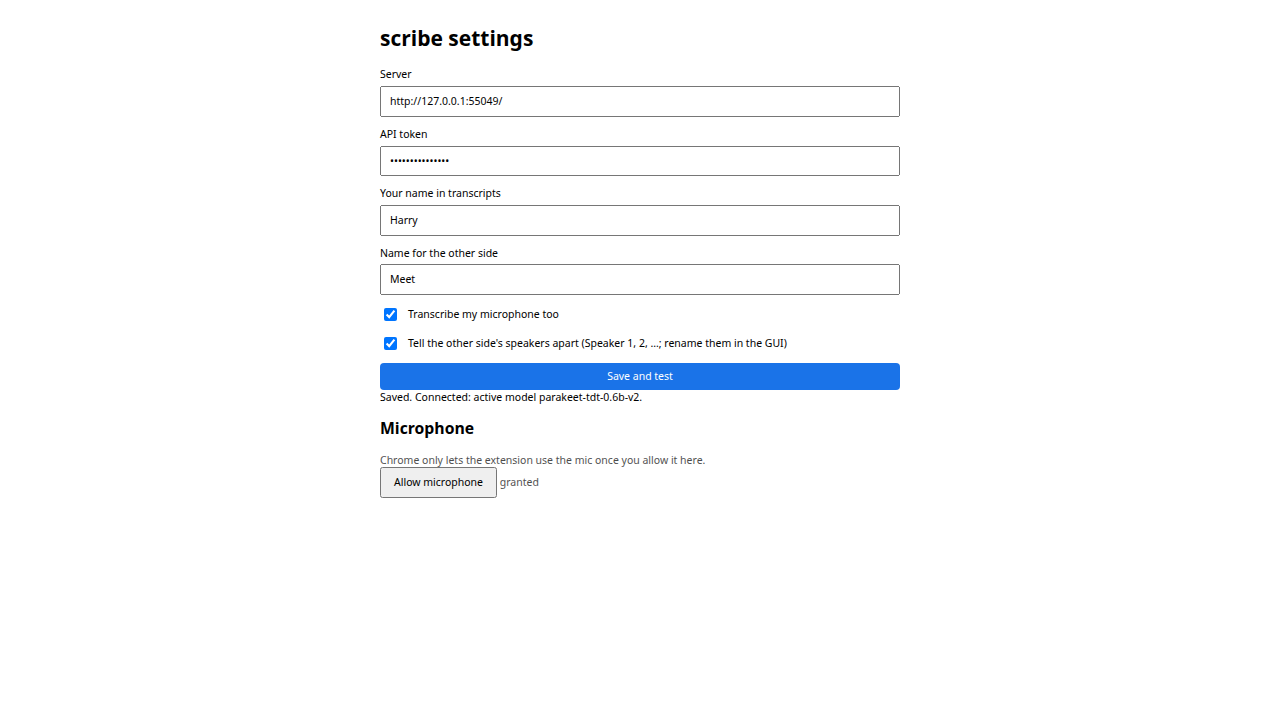
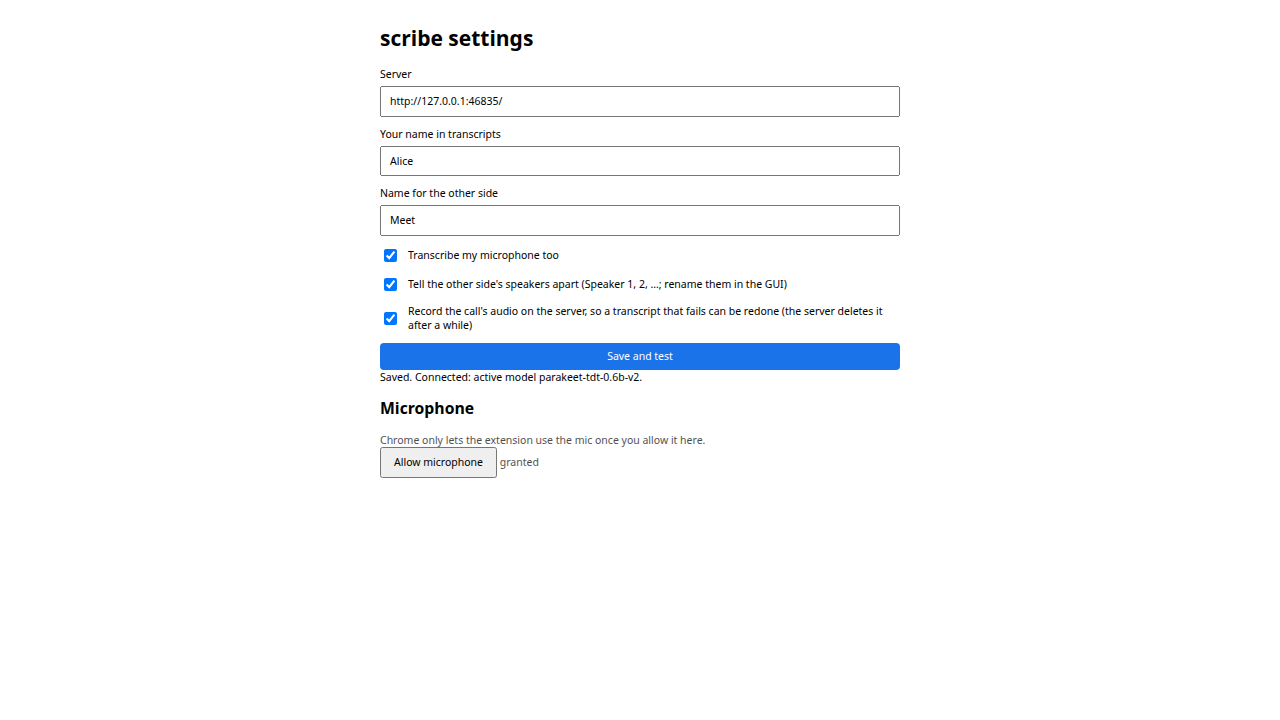
Regenerate the options screenshot without the personal name; drop the no-op host permission; realign the spec diagram

Changed region(s): [[0.2812, 0.3361, 0.7188, 0.7028], [0.2812, 0.1833, 0.4062, 0.275], [0.375, 0.1222, 0.4062, 0.1528]]

diff --git a/docs/spec.md b/docs/spec.md
@@ -81,10 +81,10 @@ test has transcribed the reference clip with it.
 ## 3. Architecture
 
 ```
- Discord voice (DAVE, UDP)                       the operator's browser (tailnet)
+ Discord voice (DAVE, UDP)                       your browser (tailnet)
           |                                               |
           v                                               v
- +------------------ scribe-host ---------------------------------------+
+ +---------------- scribe-host ----------------------------------------+
  |  bot (Node 22, discord.js)  --HTTP-->  server (Python 3.12, FastAPI)|
  |   per-user Opus -> PCM                 /v1/audio/transcriptions     |
  |   utterance segmentation               /api/models (catalogue)      |
